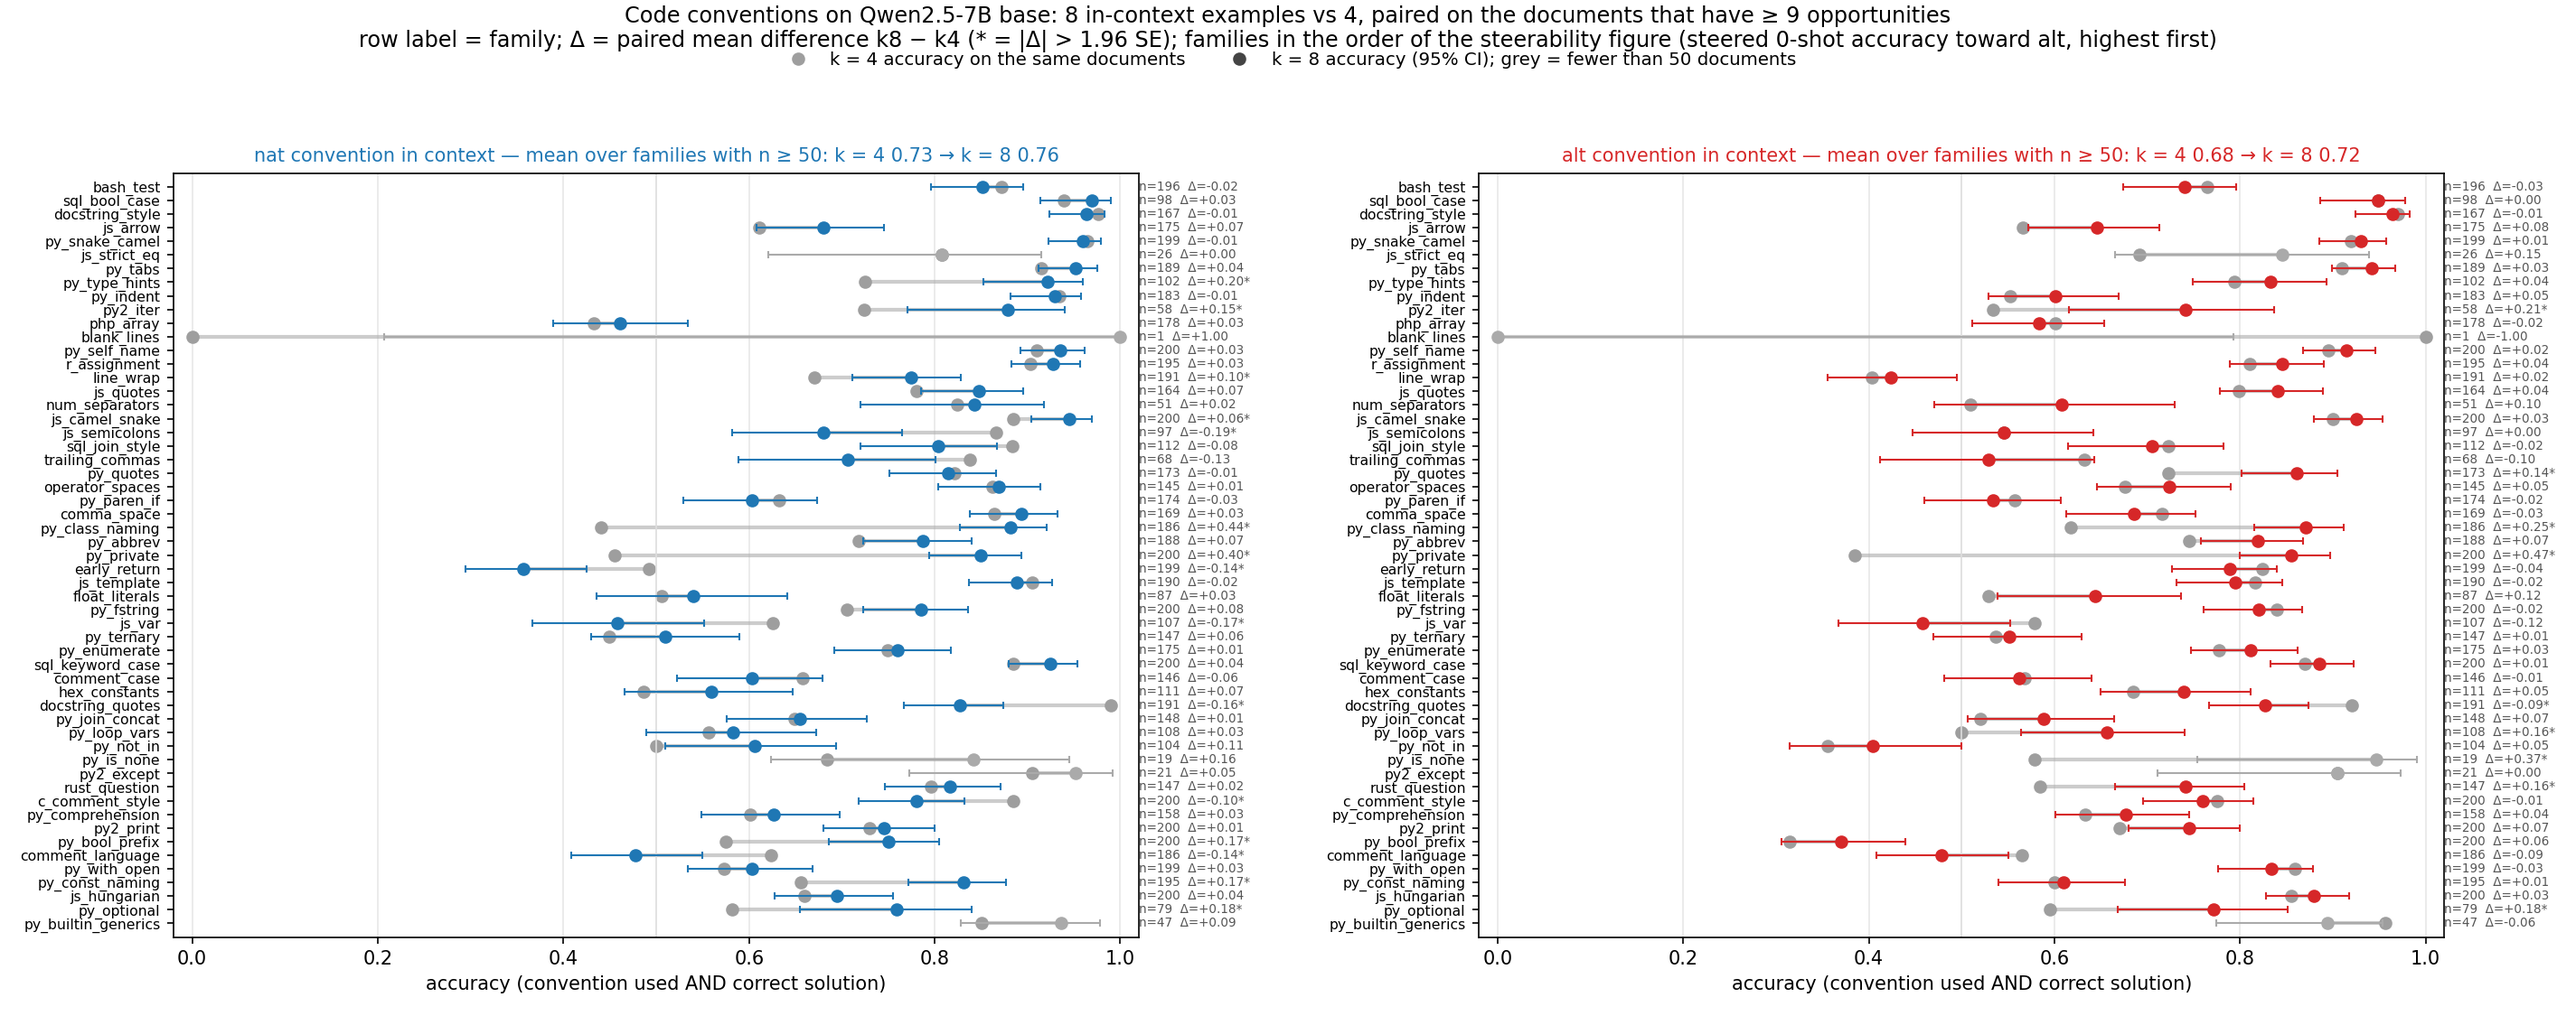
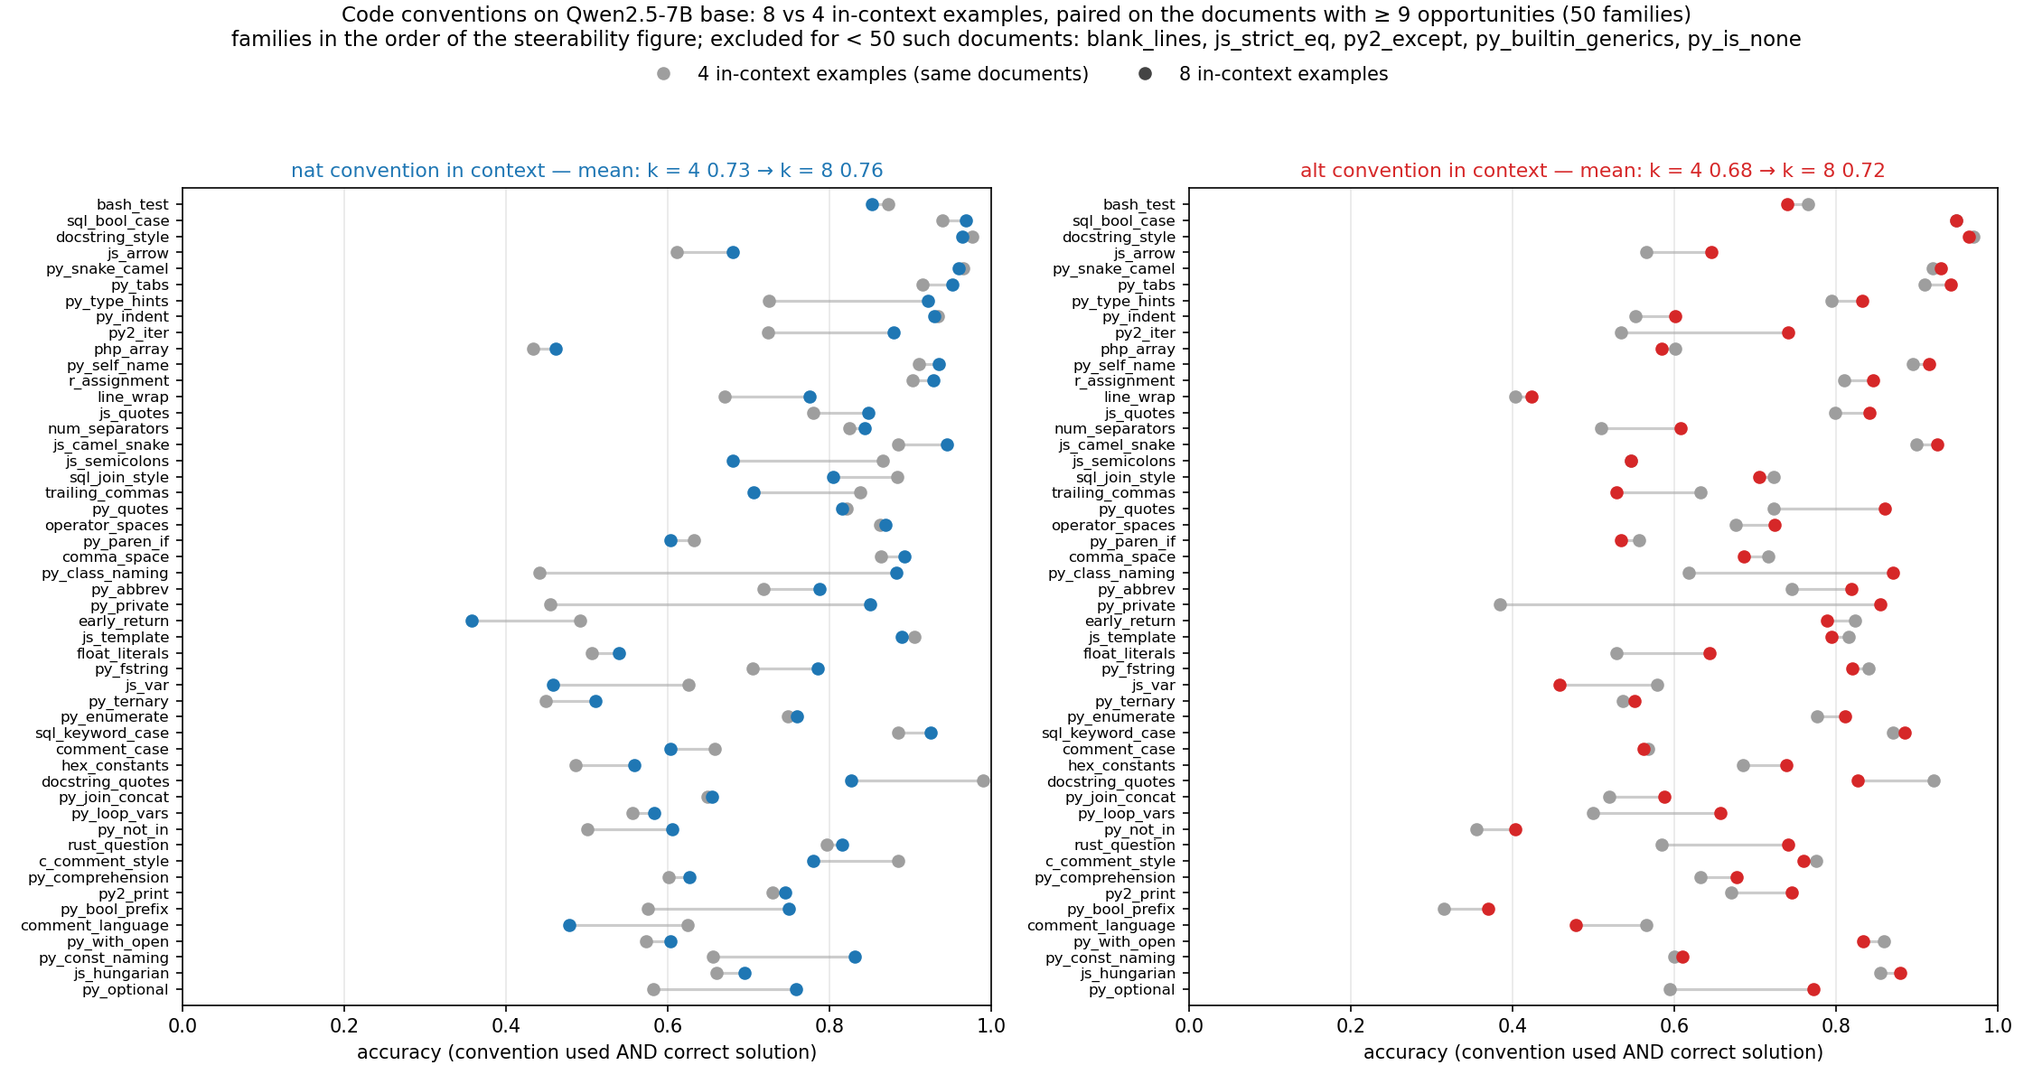
k8_vs_k4 figure: two dots per family, families with <50 k=8 documents excluded

diff --git a/src/sandbox/style_translation/k8_compare.py b/src/sandbox/style_translation/k8_compare.py
@@ -47,31 +47,29 @@ def main():
                              judge_ok_k8=round(float(np.mean([r["judge"]["ok"] for r in k8])), 3) if n8 else np.nan))
     with open(OUT / "k8_vs_k4.csv", "w", newline="") as fh:
         w = csv.DictWriter(fh, fieldnames=list(rows[0])); w.writeheader(); w.writerows(rows)
-    # figure
-    fig, axes = plt.subplots(1, 2, figsize=(19, 7.5))
-    # same family order as writeup/steerability_write.png: steered 0-shot accuracy toward the alternative pole, highest at the top
+    # figure: one dot per k, families with < 50 k = 8 documents excluded, same order as writeup/steerability_write.png
     bc = {r["family"]: float(r["accuracy"]) for r in csv.DictReader(open(R / "steering" / "best_config.csv")) if r["target"] == "alt"}
     order = sorted(pool, key=lambda f: -bc.get(f, -1))
+    small = sorted({r["family"] for r in rows if r["n_k8"] < 50})
+    fig, axes = plt.subplots(1, 2, figsize=(15, 8))
     for ax, s in zip(axes, ("nat", "alt")):
-        byf = {r["family"]: r for r in rows if r["style"] == s and r["n_k8"] > 0}
-        sub = [byf[f] for f in order if f in byf][::-1]          # reversed so that the first family is drawn at the top
+        byf = {r["family"]: r for r in rows if r["style"] == s and r["n_k8"] >= 50}
+        sub = [byf[f] for f in order if f in byf][::-1]
         y = np.arange(len(sub))
         for i, r in enumerate(sub):
-            col = C[s] if r["n_k8"] >= 50 else "#aaaaaa"
-            ax.plot([r["acc_k4_same_docs"], r["acc_k8"]], [i, i], color="#cccccc", lw=2, zorder=1)
+            ax.plot([r["acc_k4_same_docs"], r["acc_k8"]], [i, i], color="#cccccc", lw=1.5, zorder=1)
             ax.plot(r["acc_k4_same_docs"], i, "o", color="#9e9e9e", ms=6, zorder=2)
-            ax.errorbar(r["acc_k8"], i, xerr=[[r["acc_k8"] - r["ci_lo_k8"]], [r["ci_hi_k8"] - r["acc_k8"]]], fmt="o", color=col, ms=6, capsize=2, lw=1, zorder=3)
-            ax.text(1.02, i, f"n={r['n_k8']}  Δ={r['delta']:+.2f}{'*' if r['sig'] else ''}", va="center", fontsize=6.5, color="#555555")
-        ax.set_yticks(y); ax.set_yticklabels([r["family"] for r in sub], fontsize=7.5); ax.set_xlim(-0.02, 1.02); ax.set_ylim(-1, len(sub))
-        ax.set_xlabel("accuracy (convention used AND correct solution)"); ax.grid(axis="x", alpha=0.3); ax.axvline(0.5, color="#dddddd", lw=0.8)
-        m4 = np.mean([r["acc_k4_same_docs"] for r in sub if r["n_k8"] >= 50]); m8 = np.mean([r["acc_k8"] for r in sub if r["n_k8"] >= 50])
-        ax.set_title(f"{s} convention in context — mean over families with n ≥ 50: k = 4 {m4:.2f} → k = 8 {m8:.2f}", fontsize=10, color=C[s])
-    handles = [Line2D([], [], marker="o", color="#9e9e9e", ls="", ms=6, label="k = 4 accuracy on the same documents"),
-               Line2D([], [], marker="o", color="#444444", ls="", ms=6, label="k = 8 accuracy (95% CI); grey = fewer than 50 documents")]
-    fig.legend(handles=handles, loc="upper center", bbox_to_anchor=(0.5, 0.965), ncol=2, fontsize=9.5, frameon=False)
-    fig.suptitle("Code conventions on Qwen2.5-7B base: 8 in-context examples vs 4, paired on the documents that have ≥ 9 opportunities\n"
-                 "row label = family; Δ = paired mean difference k8 − k4 (* = |Δ| > 1.96 SE); families in the order of the steerability figure (steered 0-shot accuracy toward alt, highest first)", fontsize=11.5, y=0.995)
-    fig.tight_layout(rect=(0, 0, 1, 0.94), w_pad=4); fig.savefig(OUT / "k8_vs_k4.png", dpi=150); plt.close(fig)
+            ax.plot(r["acc_k8"], i, "o", color=C[s], ms=6, zorder=3)
+        ax.set_yticks(y); ax.set_yticklabels([r["family"] for r in sub], fontsize=8); ax.set_xlim(0, 1.0); ax.set_ylim(-1, len(sub))
+        ax.set_xlabel("accuracy (convention used AND correct solution)"); ax.grid(axis="x", alpha=0.3)
+        m4 = np.mean([r["acc_k4_same_docs"] for r in sub]); m8 = np.mean([r["acc_k8"] for r in sub])
+        ax.set_title(f"{s} convention in context — mean: k = 4 {m4:.2f} → k = 8 {m8:.2f}", fontsize=10.5, color=C[s])
+    handles = [Line2D([], [], marker="o", color="#9e9e9e", ls="", ms=6, label="4 in-context examples (same documents)"),
+               Line2D([], [], marker="o", color="#444444", ls="", ms=6, label="8 in-context examples")]
+    fig.legend(handles=handles, loc="upper center", bbox_to_anchor=(0.5, 0.955), ncol=2, fontsize=10, frameon=False)
+    fig.suptitle(f"Code conventions on Qwen2.5-7B base: 8 vs 4 in-context examples, paired on the documents with ≥ 9 opportunities ({len(pool) - len(small)} families)\n"
+                 f"families in the order of the steerability figure; excluded for < 50 such documents: {', '.join(small)}", fontsize=11, y=0.995)
+    fig.tight_layout(rect=(0, 0, 1, 0.93)); fig.savefig(OUT / "k8_vs_k4.png", dpi=150); plt.close(fig)
     for s in ("nat", "alt"):
         sub = [r for r in rows if r["style"] == s and r["n_k8"] >= 50]
         print(f"{s}: families n≥50 {len(sub)} | k4 (all docs) {np.mean([r['acc_k4_all'] for r in sub]):.3f} | k4 (same docs) {np.mean([r['acc_k4_same_docs'] for r in sub]):.3f} → k8 {np.mean([r['acc_k8'] for r in sub]):.3f} | "
